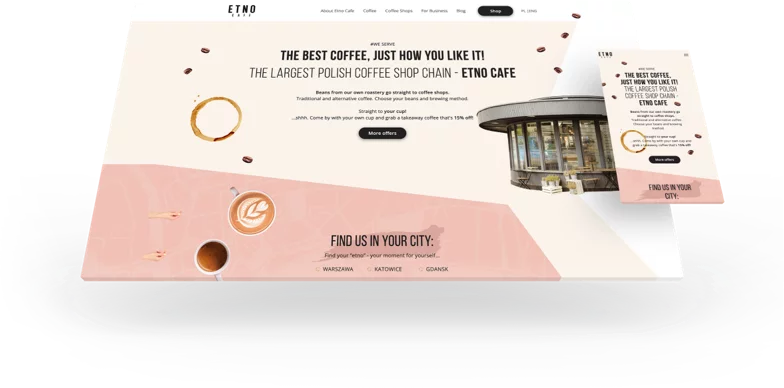
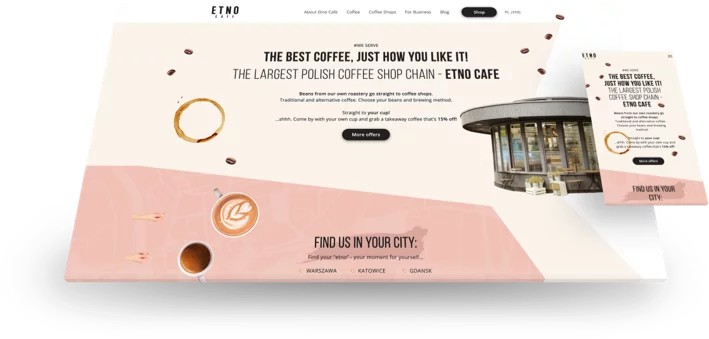
change etno hero image

diff --git a/_sass/new-styles/modules/portfolio-cases/etno/_hero.scss b/_sass/new-styles/modules/portfolio-cases/etno/_hero.scss
@@ -52,7 +52,7 @@
       top: 50px;
       z-index: -1;
       transform: translateX(-12%);
-      width: 130%;
+      width: 120%;
     }
   }
 }
@@ -102,7 +102,7 @@
       &-img {
         top: 150px;
         transform: translateX(-30%);
-        width: 550px;
+        width: 450px;
       }
     }
   }
@@ -143,7 +143,7 @@
         top: 70px;
         left: -100px;
         transform: none;
-        width: 600px;
+        width: 550px;
       }
     }
   }
@@ -184,9 +184,9 @@
       }
 
       &-img {
-        top: -35px;
-        left: -70px;
-        width: 740px;
+        top: -10px;
+        left: -40px;
+        width: 600px;
       }
     }
   }
@@ -214,9 +214,9 @@
       }
 
       &-img {
-        top: -20px;
-        left: -50px;
-        width: 820px;
+        top: -5px;
+        left: -30px;
+        width: 700px;
       }
     }
   }
